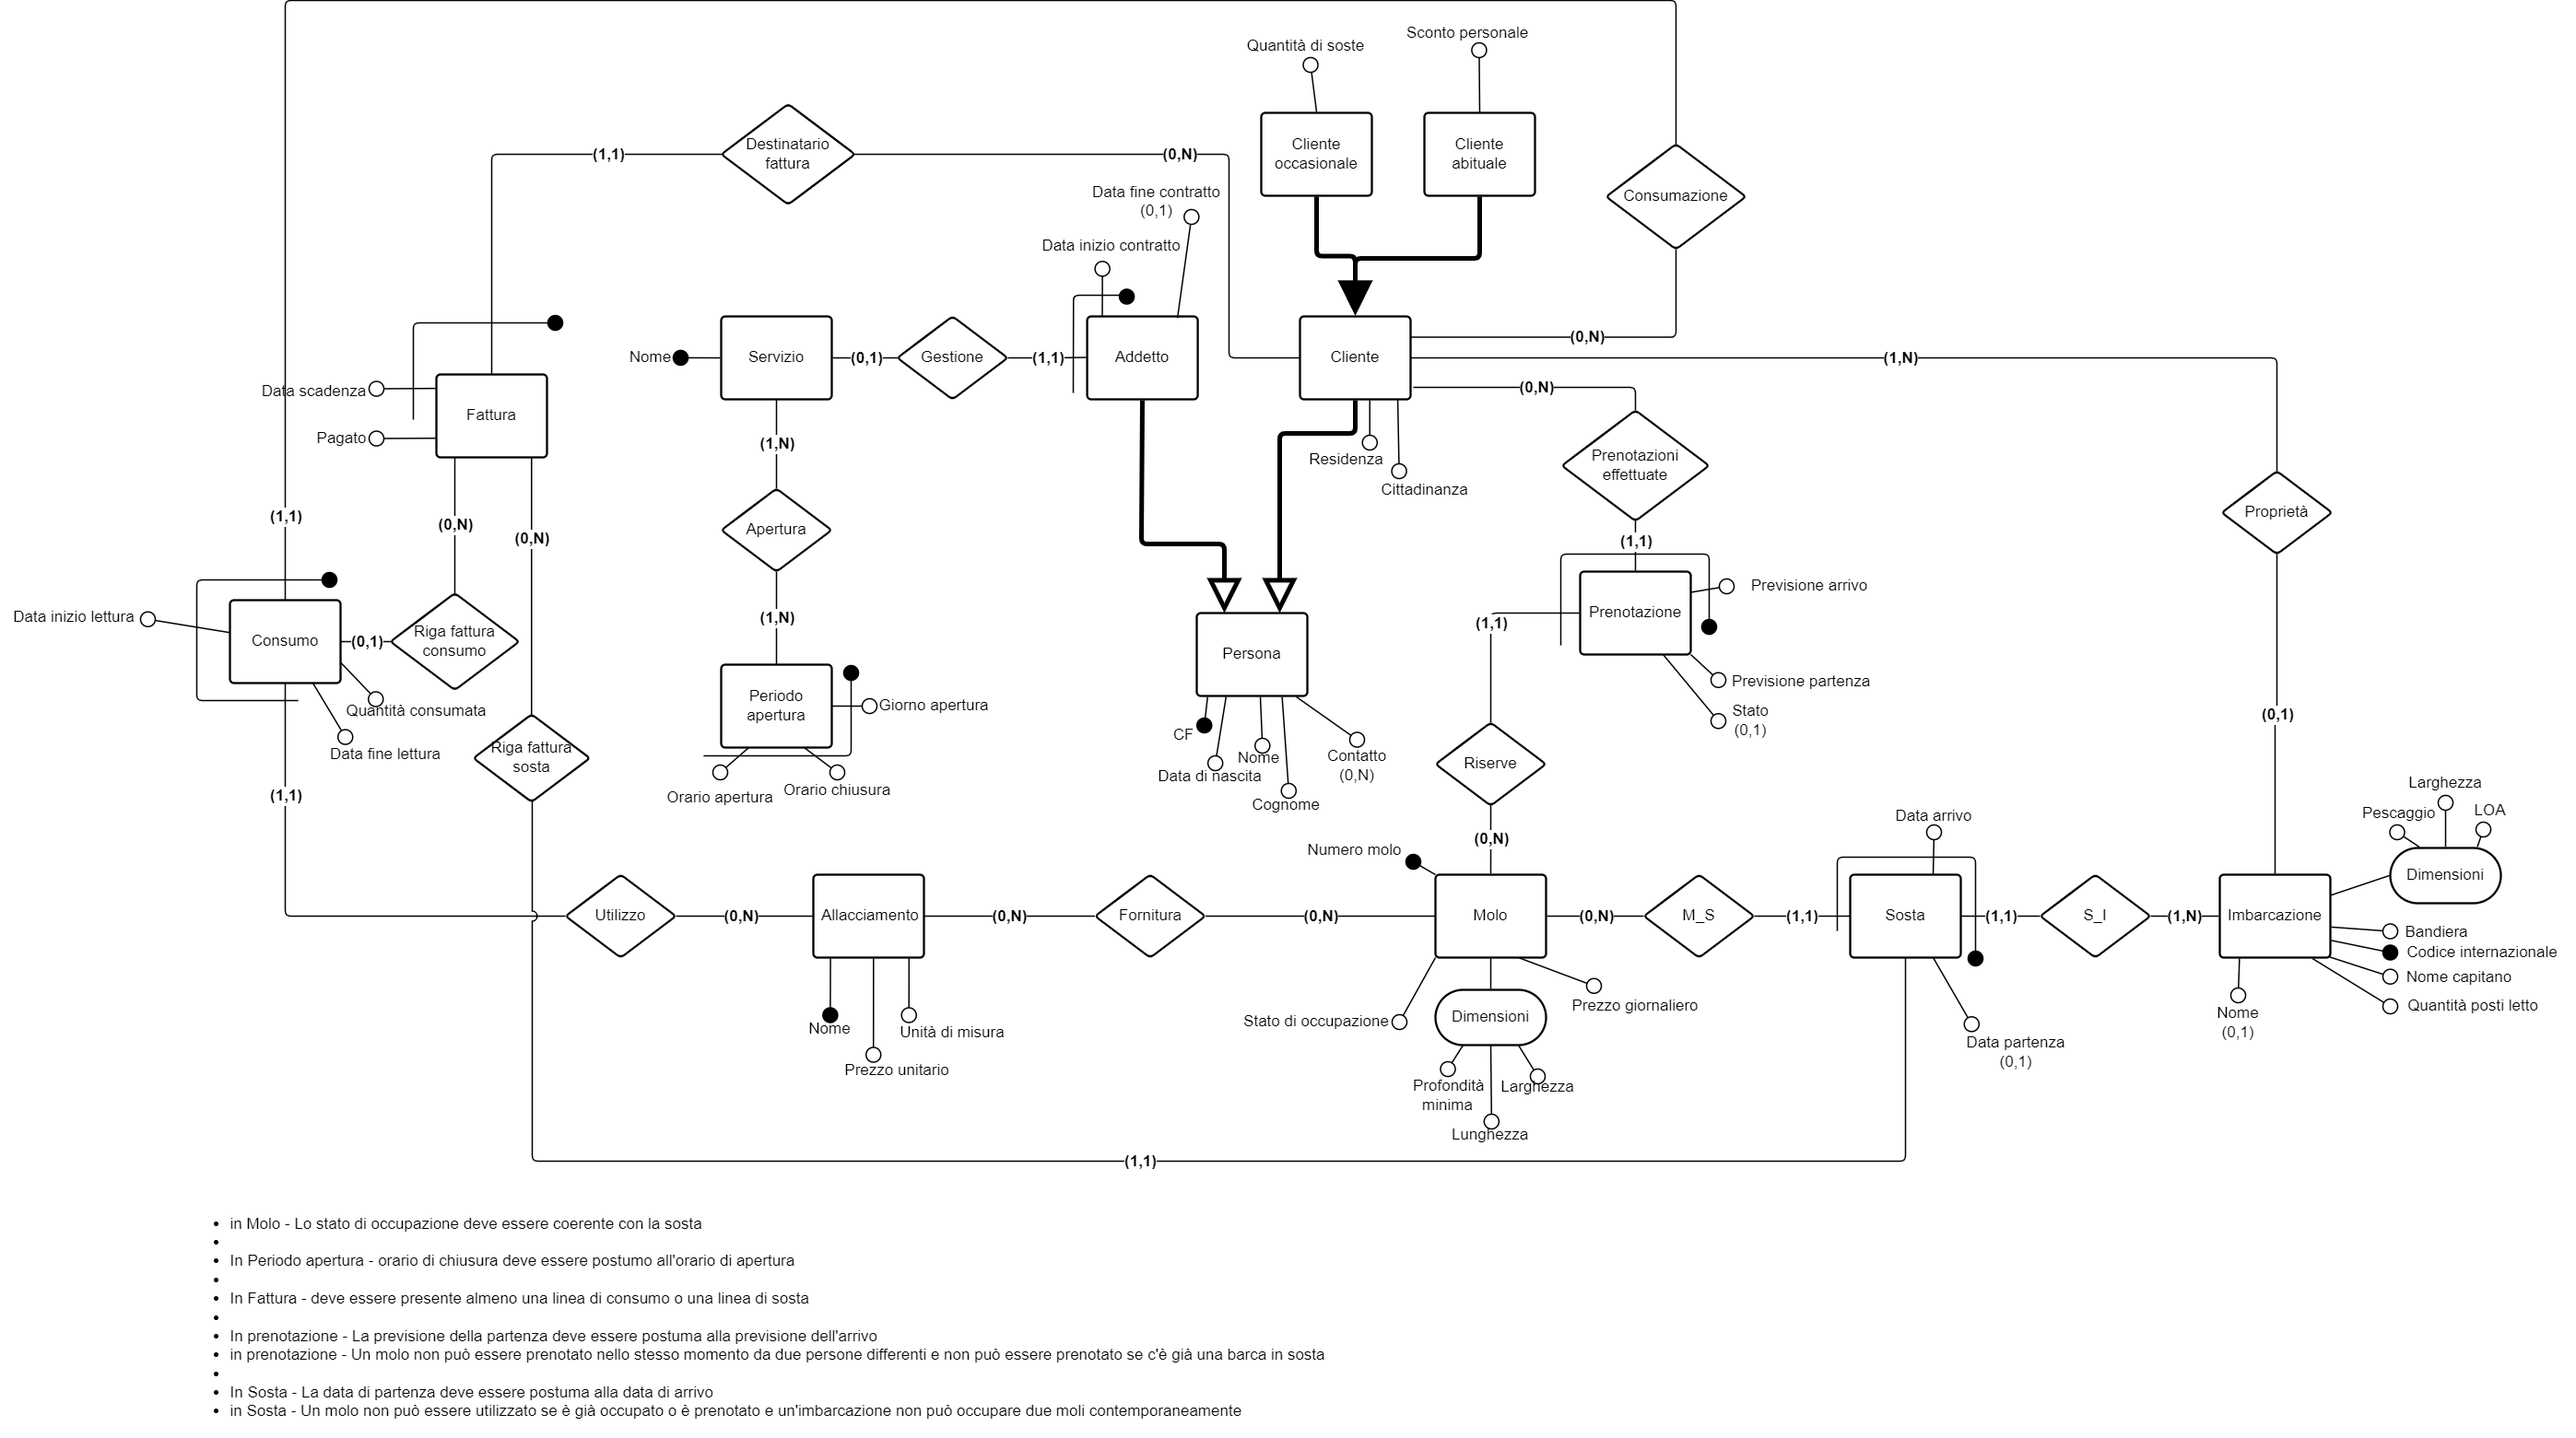
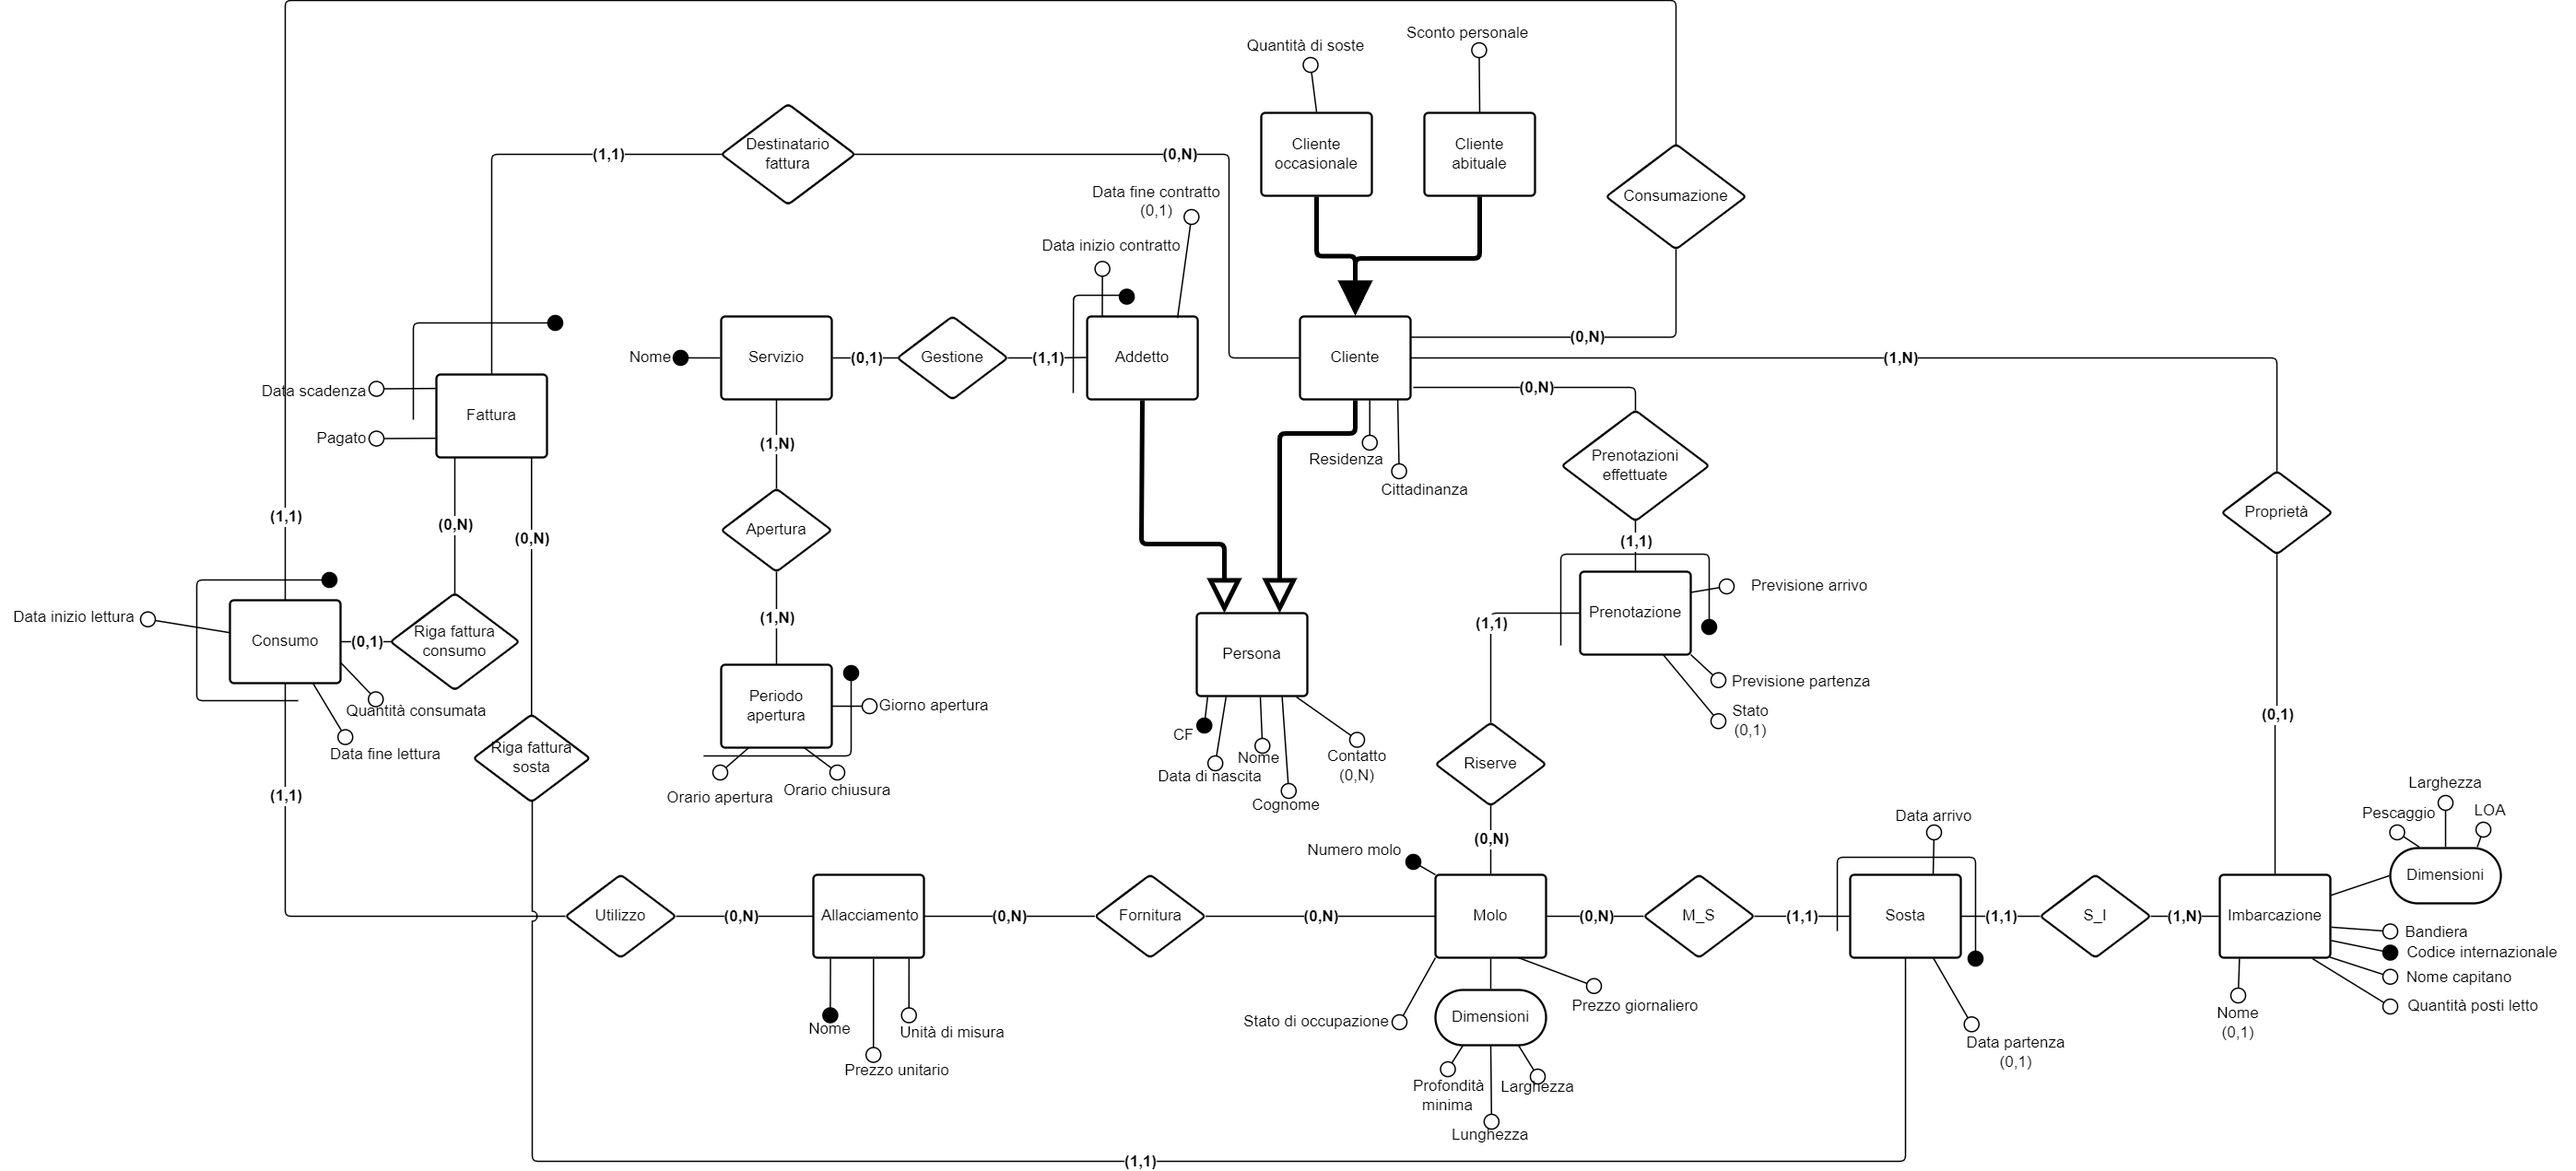
Aggiunti i vincoli non rappresentabili tramite lo schema ER

diff --git a/src_relazione_tex/contenuti/progettazione_concettuale.tex b/src_relazione_tex/contenuti/progettazione_concettuale.tex
@@ -343,3 +343,35 @@
 
 \subsection{Schema ER concettuale}
 \includegraphics[width=\textwidth]{img/erconcettuale.png}
+
+\subsubsection{Vincoli non rappresentabili nello schema Relazionale}
+
+\begin{center}
+    \begin{tabularx}{\textwidth}{|p{30mm}|X|}
+        \hline
+        \rowcolor{gray!30}
+        \textbf{Entità / Relazione} & \textbf{Vincolo}\\
+        \hline
+        Molo & Lo stato di occupazione deve essere coerente con la sosta\\
+        \hline
+
+        Periodo di apertura & orario di chiusura deve essere postumo all'orario di apertura \\
+        \hline
+
+        Fattura & deve essere presente almeno una linea di consumo o una linea di sosta\\
+        \hline
+
+        Prenotazione & La previsione della partenza deve essere postuma alla previsione dell'arrivo\\
+        \hline
+
+        Prenotazione & Un molo non può essere prenotato nello stesso momento da due persone differenti e non può essere prenotato se c'è già una barca in sosta\\
+        \hline
+
+        Sosta & La data di partenza deve essere postuma alla data di arrivo\\
+
+        \hline
+        Sosta & Un molo non può essere utilizzato se è già occupato o è prenotato e un'imbarcazione non può occupare due moli contemporaneamente\\
+
+        \hline
+    \end{tabularx}
+\end{center}
